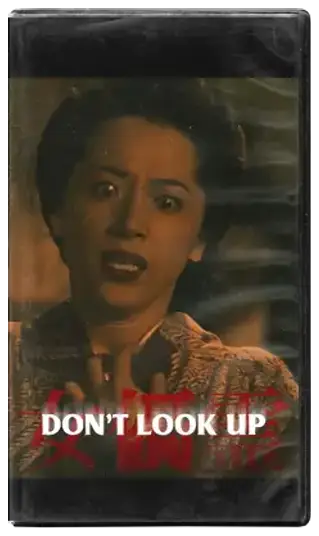
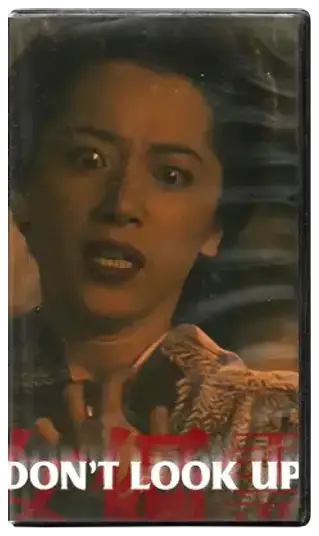
fix: always fill VHS cover artwork edge to edge

diff --git a/scripts/vhs/generate_vote_covers.ts b/scripts/vhs/generate_vote_covers.ts
@@ -8,7 +8,6 @@ export interface VoteCoverSource {
   tmdbId: number;
   posterPath: string;
   outputFile: string;
-  fit?: "cover" | "contain";
 }
 
 const MANIFEST_PATH = path.join(
@@ -54,7 +53,7 @@ export const generateVoteCovers = async (
     const rendered = await renderVhsPoster({
       sourceUrl: `https://image.tmdb.org/t/p/original${source.posterPath}`,
       templateId: "black-case-front-v1",
-      fit: source.fit ?? "cover",
+      fit: "cover",
       width: 520,
       height: 520,
       format: "webp",
